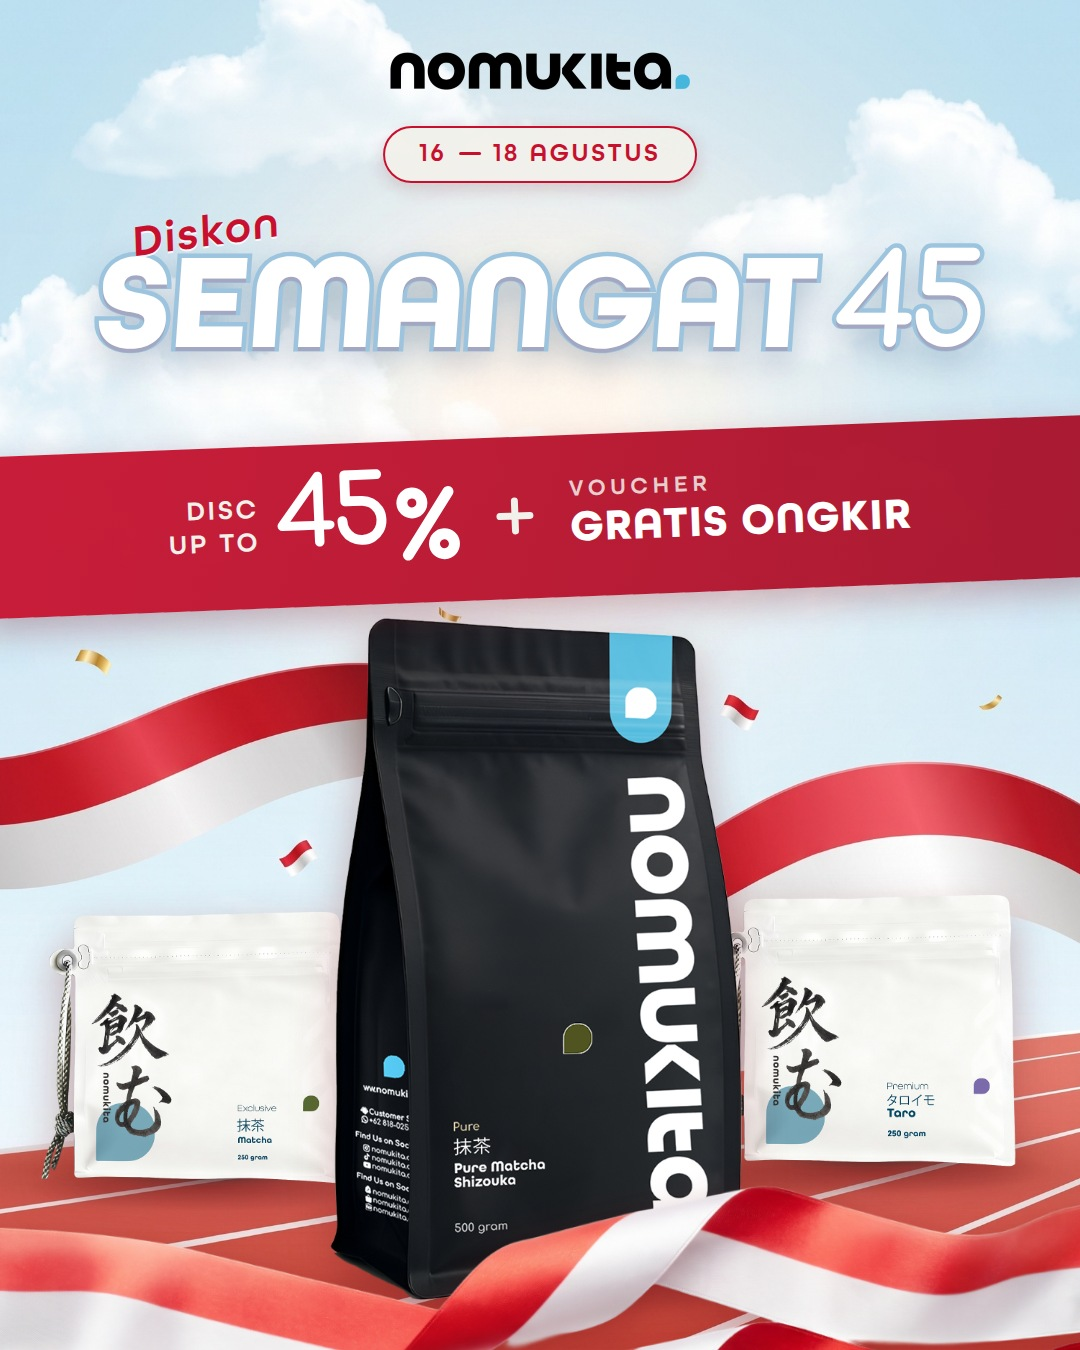
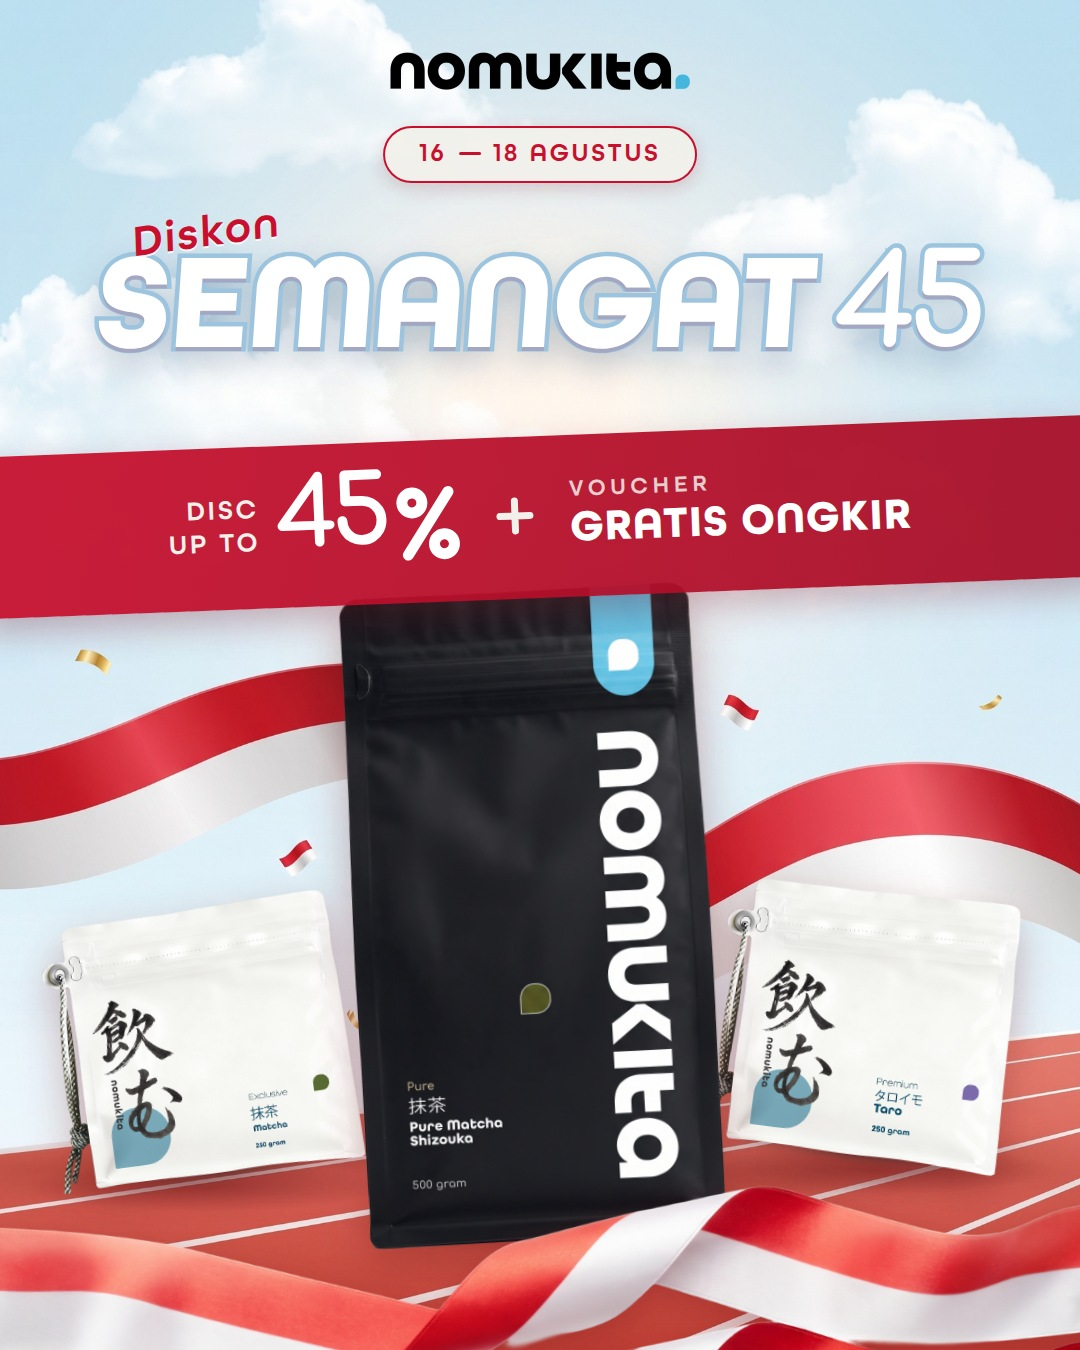
Give the 17an leader a front-facing pouch and the reference's racing poses
Two fixes from review. The "menghadap ke depan" note was about the black
pouch itself: every Shizouka asset in Drive uses the same 3/4-angle mockup,
so a dead-on front view was generated — nano-banana-pro fed both the 3/4
mockup and a front-facing white pouch as perspective reference, constrained
to reproduce the label character for character, then cut out with
recraft/remove-background. The label zoom-verifies clean: Pure / 抹茶 /
Pure Matcha Shizouka / 500 gram.

And the racing poses come back: the upright arrangement read as products
standing still, so the reference's dynamic leans return (-3° leader, -8°
and +7° rivals) while keeping every foot inside the red track surface. The
leader's top now tucks behind the offer band exactly as the reference's
centre product does, and its slimmer front-view geometry (aspect 0.553) is
positioned so 500 gram sits one row above the finish tape.

README documents the front-view generation recipe, the label QC, and the
tape/label clearance so regeneration or repositioning repeats the checks.

Claude-Session: https://claude.ai/code/session_01JLTZpkd5TWMrYgZzd5niuW

diff --git a/design/17agustus/banner.html b/design/17agustus/banner.html
@@ -77,9 +77,9 @@
 
   /* ── products on the track ── */
   .prod{position:absolute;z-index:6;filter:drop-shadow(0 18px 22px rgba(120,25,30,.35))}
-  .p-shz{left:330px;top:618px;width:420px;z-index:7}
-  .p-pre{left:30px; top:912px;width:350px}
-  .p-tar{right:30px;top:895px;width:350px}
+  .p-shz{left:352px;top:590px;width:360px;z-index:7;transform:rotate(-3deg)}
+  .p-pre{left:34px; top:906px;width:350px;transform:rotate(-8deg)}
+  .p-tar{right:34px;top:889px;width:350px;transform:rotate(7deg)}
   /* finish-line tape breaking across the leader's lane, in front of everything */
   .tape{position:absolute;left:-70px;top:1192px;width:1220px;z-index:8;
     transform:rotate(-1.6deg);
@@ -125,13 +125,13 @@
     </div>
   </div>
 
-  <div class="gshadow" style="left:310px;top:1252px;width:460px;height:66px"></div>
+  <div class="gshadow" style="left:338px;top:1196px;width:400px;height:58px"></div>
   <div class="gshadow" style="left:24px;top:1162px;width:362px;height:50px"></div>
   <div class="gshadow" style="right:24px;top:1145px;width:362px;height:50px"></div>
 
   <img class="prod p-pre" src="assets/premix.png" alt="Matcha Premix 250 gram">
   <img class="prod p-tar" src="assets/taro.png" alt="Taro 250 gram">
-  <img class="prod p-shz" src="assets/shizouka.png" alt="Pure Matcha Shizouka">
+  <img class="prod p-shz" src="assets/shizouka-front.png" alt="Pure Matcha Shizouka">
   <img class="tape" src="assets/tape.png" alt="">
 
 </div>

diff --git a/design/17agustus/README.md b/design/17agustus/README.md
@@ -29,7 +29,7 @@ node design/17agustus/render.mjs
 | Produk | File sumber |
 |---|---|
 | Matcha Premix 250 gram | `nomukita-matcha japanese.png` (Packaging 250) — pouch yang sama persis dengan foto di slide PDP Premix |
-| Pure Matcha Shizouka 500 gram | `Mockup nomukita-Pure Matcha Shizouka.png` |
+| Pure Matcha Shizouka 500 gram | `assets/shizouka-front.png` — **tampak depan hasil generate** (lihat bawah) |
 | Taro 250 gram | `nomukita-taro-250g.png` (Packaging 250) |
 
 Ketiganya cutout transparan asli yang dikomposit di HTML — **label tidak melewati
@@ -41,14 +41,27 @@ tanpa produk dan tanpa teks.
 
 Produk ditata sebagai pelari di lintasan:
 
-- **Semua produk tegak menghadap depan, tanpa rotasi**, dan kaki ketiganya
-  tertanam **di dalam permukaan merah lintasan** (tepi belakang lintasan ada di
-  ~y1085 kiri sampai ~y1010 kanan — kaki produk harus di bawah garis itu,
-  jangan ditaruh tepat di tepinya karena akan terbaca "di luar lintasan").
-- **Shizouka memimpin** — terdepan (kaki y1300, terbesar), menembus **pita
-  finis** (`assets/tape.png`) yang melintang di depan kakinya.
-- **Premix & Taro menyusul** — kaki y1195 / y1178, lebih kecil (350px vs
-  420px), di lajur masing-masing.
+- **Pose balapan referensi**: miring dinamis — Shizouka `-3°`, Premix `-8°`,
+  Taro `+7°` — dengan kaki ketiganya tetap **di dalam permukaan merah lintasan**
+  (tepi belakang lintasan ~y1085 kiri sampai ~y1010 kanan; kaki harus di bawah
+  garis itu, jangan tepat di tepinya).
+- **Shizouka memimpin** — tengah, terbesar, puncaknya menyelip di belakang band
+  (persis produk tengah referensi), menembus **pita finis** (`assets/tape.png`).
+- **Premix & Taro menyusul** — kaki ~y1188 / ~y1171, lebih kecil, di lajur
+  masing-masing.
+
+### Pouch Shizouka tampak depan
+
+Semua aset Shizouka di Drive memakai mockup 3/4 menyamping — tampak depannya
+tidak ada, jadi digenerate: `nano-banana-pro` diberi dua gambar (mockup 3/4 +
+pouch putih tampak depan sebagai acuan perspektif) dengan instruksi mereproduksi
+label karakter demi karakter, lalu `recraft/remove-background`. Label sudah
+di-zoom-verifikasi: `Pure / 抹茶 / Pure Matcha Shizouka / 500 gram` semuanya
+tepat. Kalau digenerate ulang, ulangi verifikasi itu.
+
+Geometri pouch depan lebih ramping (aspect 0,553): `w360 → h651`, `top:590`
+menempatkan `500 gram` (91,9% tinggi pouch) di y1188 — tepat di atas pita
+(y1192). Menggeser pouch atau pita = periksa ulang zoom label.
 - Pita finis digenerate terpisah (pita satin merah-putih di latar putih, lalu
   `recraft/remove-background`) supaya bisa ditaruh *di depan* produk; pita di
   background tetap di belakang sebagai lapisan kedalaman.
